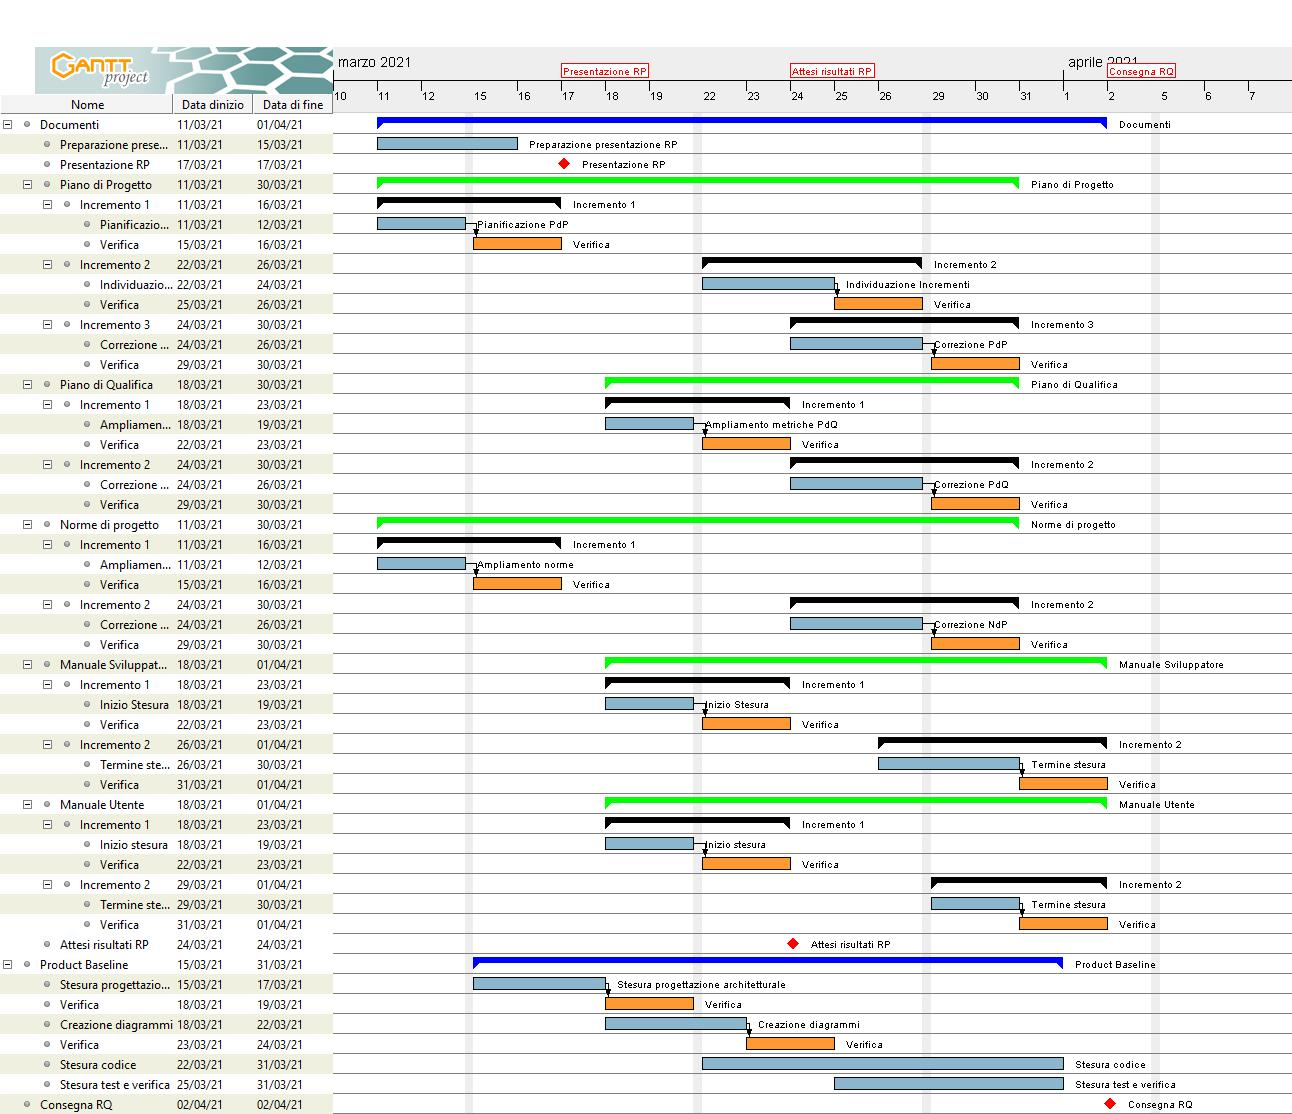
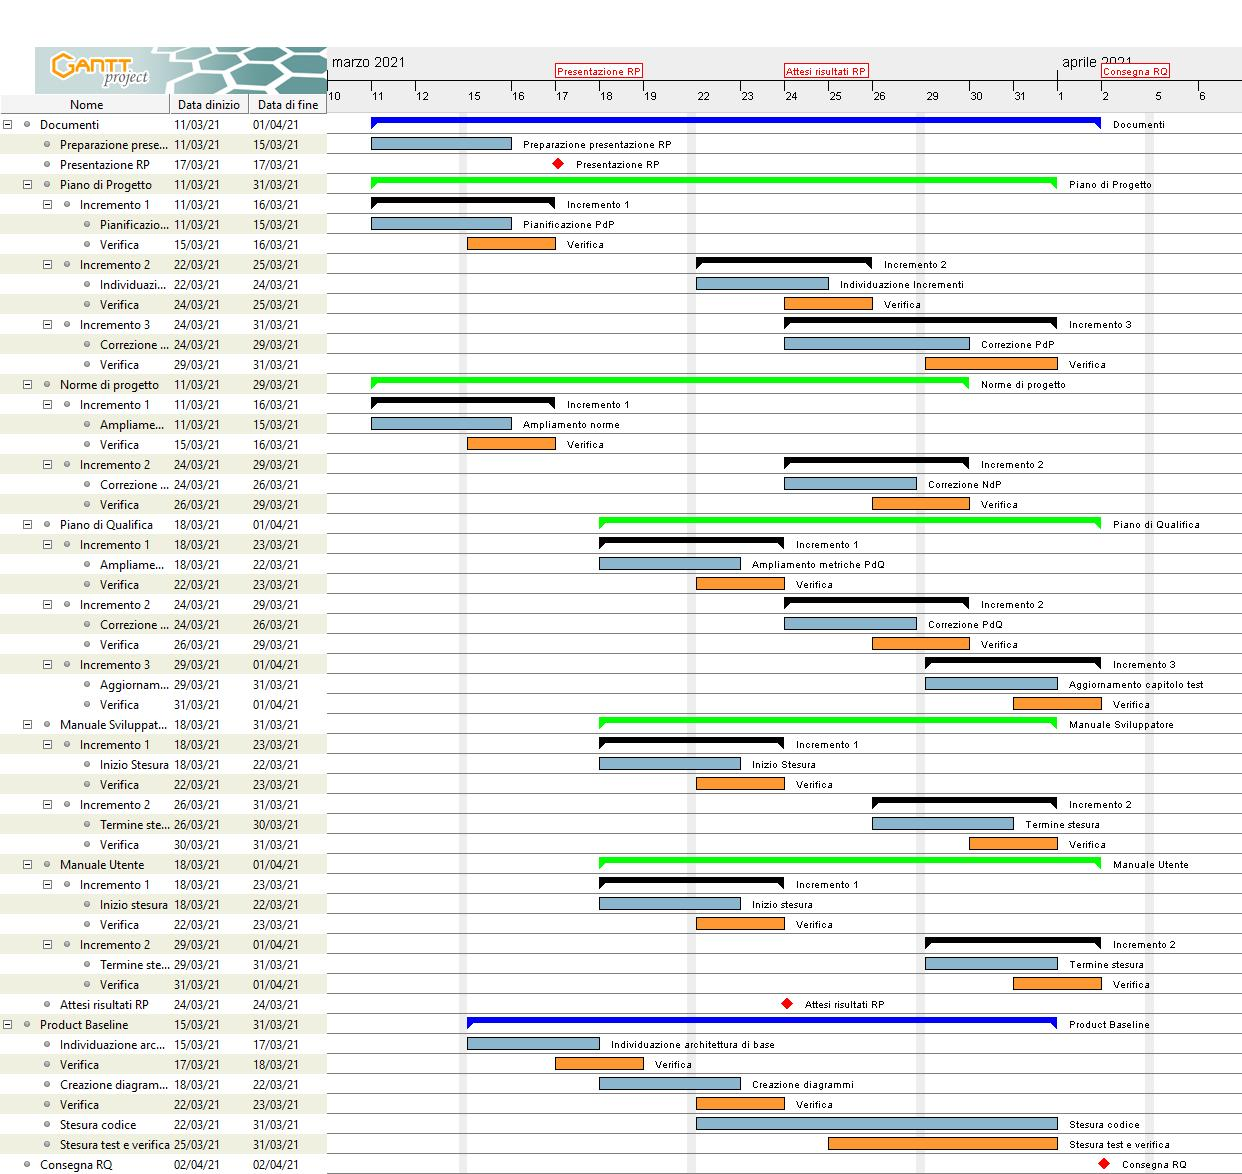
pianificazione rivista

diff --git a/esterni/piano_di_progetto/src/4_pianificazione.tex b/esterni/piano_di_progetto/src/4_pianificazione.tex
@@ -365,6 +365,7 @@ Complessivamente questa fase è caratterizzata da due processi, quello di \emph{
         \begin{itemize}
             \item \textbf{Incremento I:} Si stilano le metriche e gli obiettivi relativi al prodotto software;
             \item \textbf{Incremento II:} Si correggono eventuali errori segnalati tra gli esiti della Revisione di Progettazione;
+            \item \textbf{Incremento III:} Si aggiornano i capitoli relativi ai test svolti;
         \end{itemize}
         \item \textbf{Norme di progetto:}
         \begin{itemize}
@@ -408,6 +409,42 @@ Complessivamente questa fase è caratterizzata da due processi, quello di \emph{
 \includegraphics[width=18cm]{src/img/gantt/pianificazione_iniziale_RQ.jpg}
 \caption{Diagramma di Gantt della fase di progettazione e codifica}
 \end{figure}
+
+
+\paragraph{Progettazione riveduta in data 2021-04-13}
+Periodo: dal 2021-04-13 al data da definire.\\ \\
+La pianificazione realizzata inizialmente si è dimostrata inconsistente in quanto i tempi erano troppo stretti. Inoltre essa si basava sul fatto che i risultati sarebbero stati 
+positi sia per quanto riguarda gli esiti della Revisione di Progettazione, sia per quanto riguarda i colloqui della Product Baseline. Infatti inizialmente non si sapeva quando sarebbero
+avvenuti tali colloqui, e si sperava di concludere tutto per tempo.\\
+Il blocco imposto nei colloqui per la Product Baseline ha richiesto di rivedere la pianificazione dei successivi mesi; sia la correzione dell'architettura realizzata, 
+sia i vari errori emersi tra gli esisti della Revisione di Progettazione, hanno comportato parecchio ritardo. Il gruppo ha comunque iniziato a scrivere codice e contemporaneamente 
+i test necessari sia per valutare il raggiungimento degli obiettivi di qualità, sia per dimostrare effettivamente che l'architettura ideata è valida. \\
+Come nella precedente pianificazione, la fase si è composta da due processi, documentazione e programmazione. Per quanto riguarda i documenti, gli incrementi previsti 
+sono gli stessi della pianificazione precedente. Per quanto riguarda invece la codifica software si è dovuto rivalutare quanto lavoro svolgere. \\
+
+\textbf{HD-Viz:}
+\begin{itemize}
+    \item \textbf{Correzione dell'architettura:}
+    \begin{itemize}
+        \item \textbf{Incremento I:} Si correggono i pattern relativi a X;
+        \item \textbf{Incremento II:} Si correggono i pattern relativi a Y;
+    \end{itemize}
+    \item \textbf{Codifica:}
+    \begin{itemize}
+        \item \textbf{Incremento I:} Si codifica la parte X e se ne realizzano i test;
+        \item \textbf{Incremento II:} Si codifica la parte Y e se ne realizzano i test;
+        \item \textbf{Incremento III:} Si codificala parte Z e se ne realizzano i test;
+    \end{itemize}
+\end{itemize}
+
+
+\begin{landscape}
+    \begin{sidewaysfigure}
+    \centering
+    \includegraphics[width=1\textwidth, width=200mm, angle=90]{src/img/gantt/pianificazione_riveduta_RQ.jpg}
+    \caption{Diagramma di Gantt della fase di progettazione e codifica}
+    \end{sidewaysfigure}
+\end{landscape}%}
 
 %======================================%
 

diff --git a/esterni/piano_di_progetto/piano_di_progetto.tex b/esterni/piano_di_progetto/piano_di_progetto.tex
@@ -1,4 +1,6 @@
 \documentclass{article}
+\usepackage{rotating}
+\usepackage{graphicx}
 
 \input{../../config/config.tex}
 %aggiungere percorsi dai quali il documento prende le immagini
